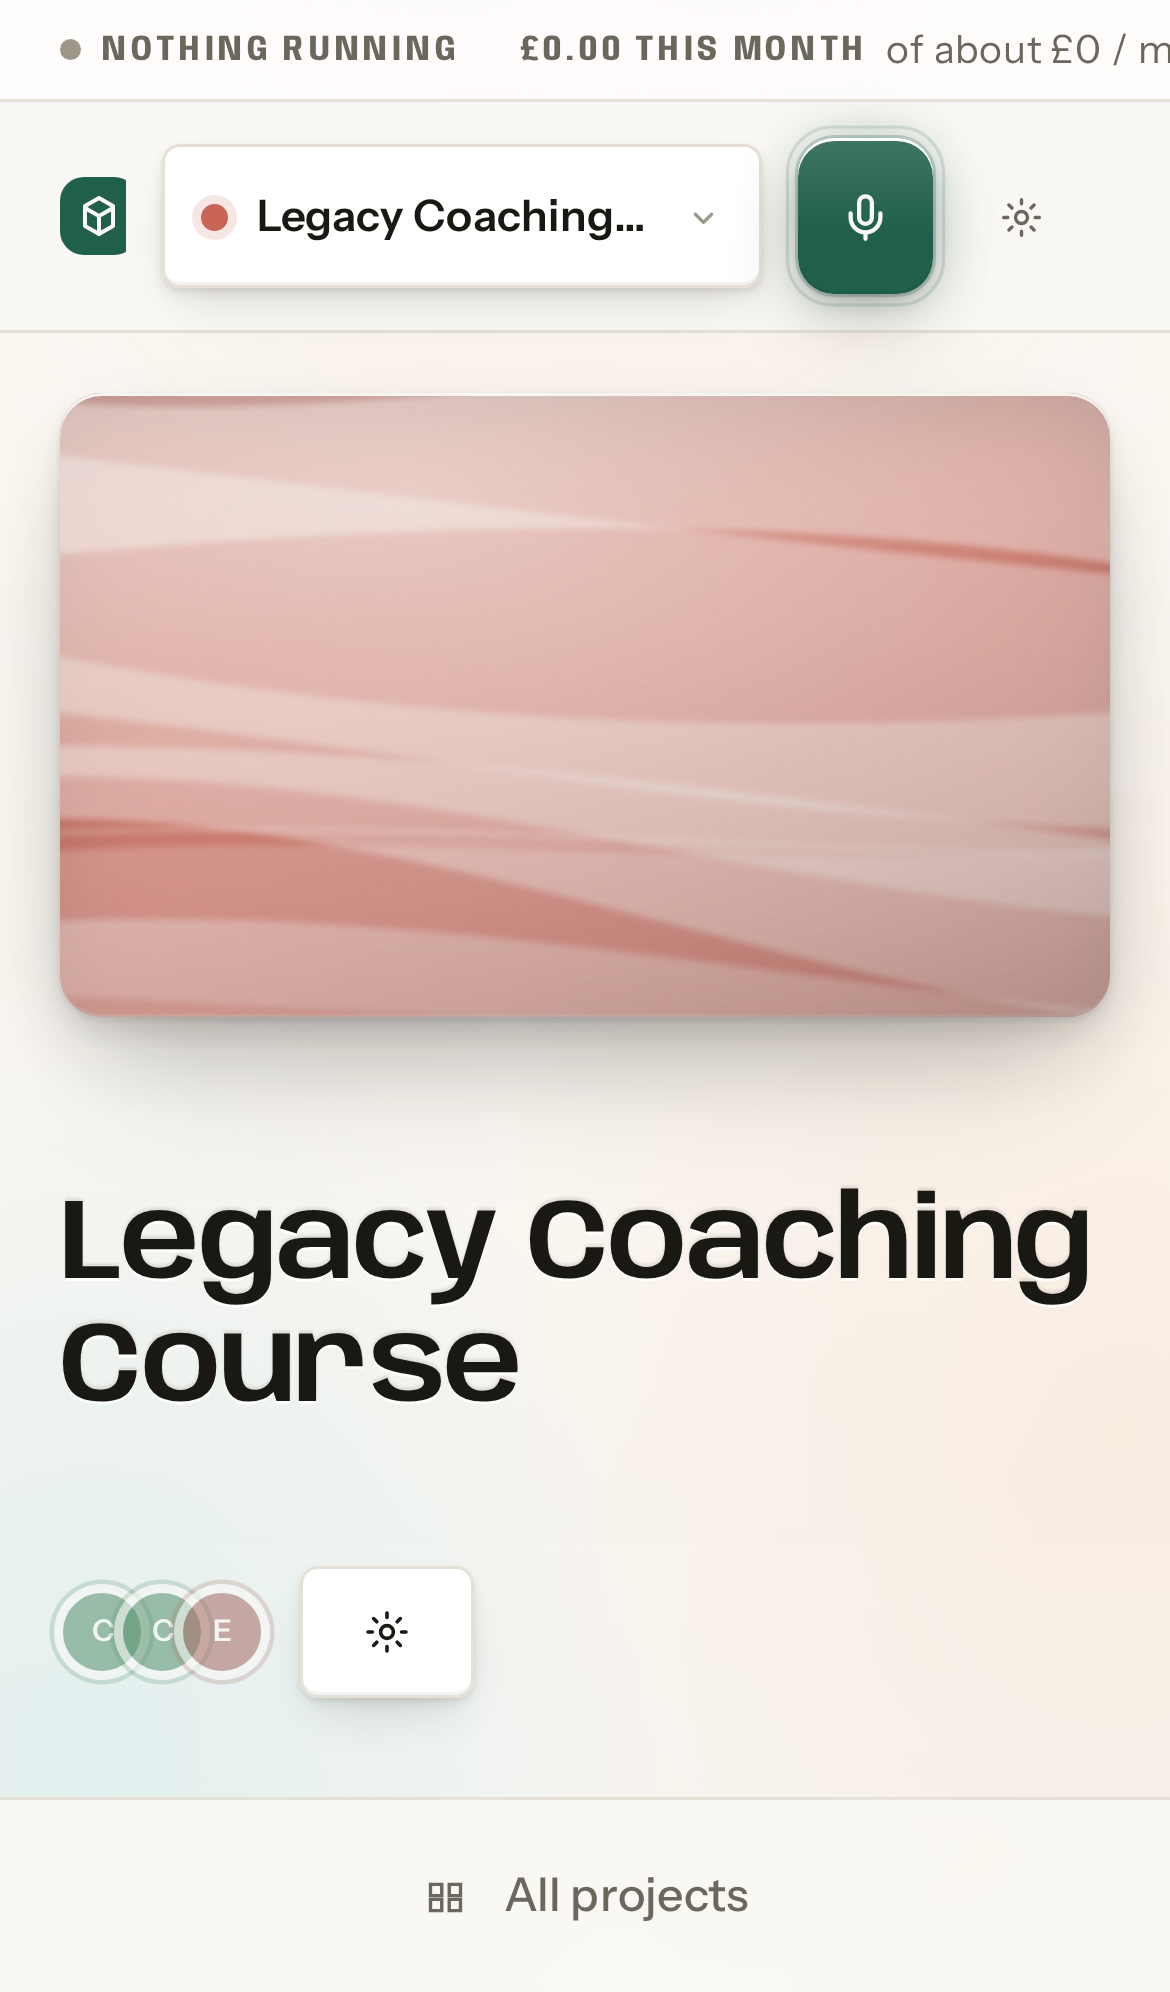
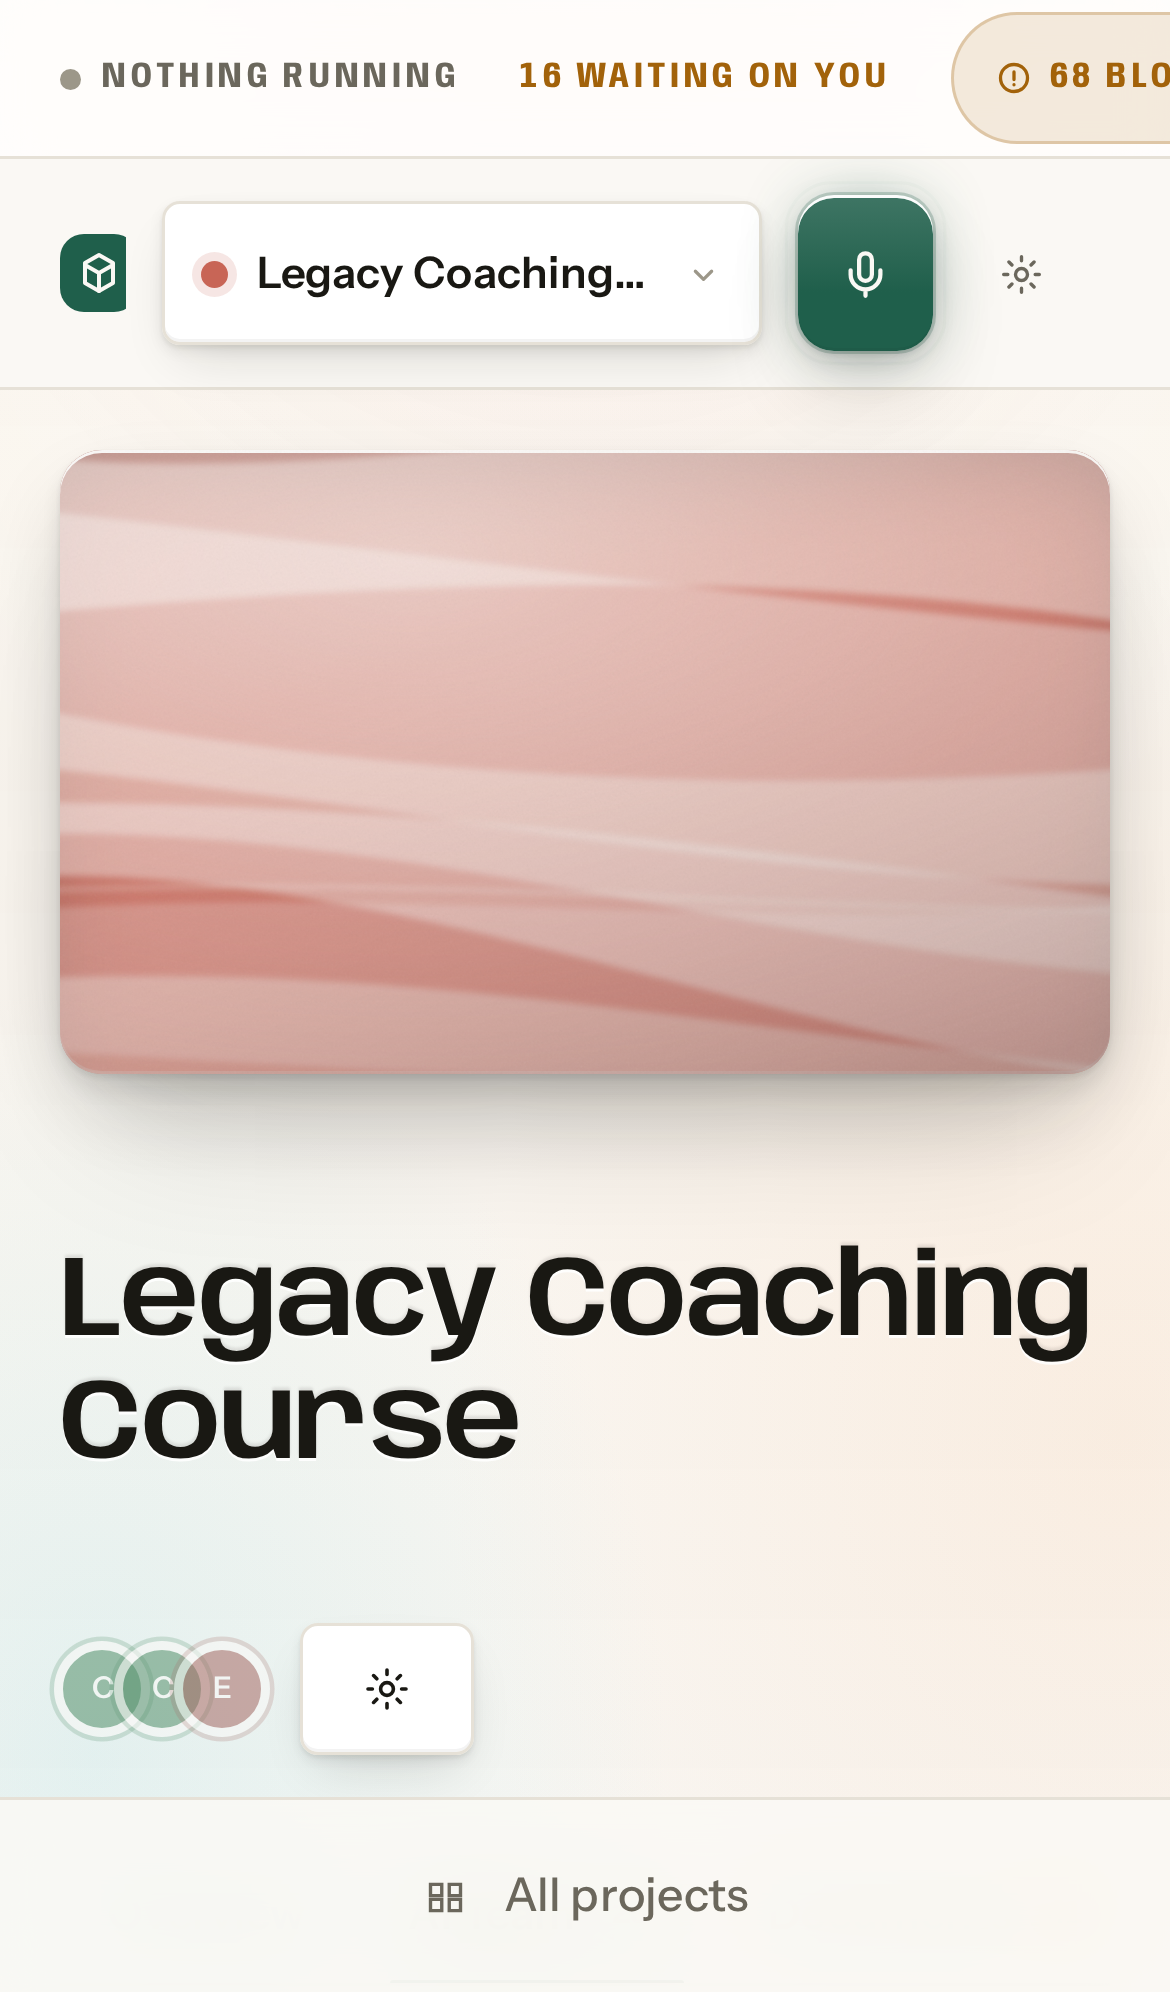
#68 the usage dashboard and the job queue, both real
usage.js said wiring it would be "a one-line change rather than a rewrite"
because the mock was written in usage_overview's exact shape. It was — the
keys match key for key. The dashboard now shows Grant's real figures: 311
calls, 320,436 tokens, 36 failed, 37 MB of 500 MB, and the notebook
allowance marked "our estimate" on the face of the card because Google
publishes no usage API. That labelling is the point: the same file records
that it once claimed 82% of the storage tier when the real number was 4%.

It reads usage_overview, not hq_usage. Two functions, two shapes — hq_usage
groups by subsystem for the old page; usage_overview groups by SERVICE with a
quota and a provenance each, which is what Grant asked for.

workspace.js turned out not to be mocked at all. It is a pure function over
project.requests, and replacing data.js left that array empty — so Active
jobs and Outputs went honestly blank while the office was running jobs. A
tab empty because nothing was asked looks identical to one empty because
nobody wired it, which is why it took a migration rather than a shrug.

Then the ribbon read 68 BLOCKED, in amber, on the biggest project, when
nothing was blocked. I had keyed `blocked` on the presence of state_reason,
which is written on every dequeue — "dequeued by worker-edge". Blocked is
the three states that mean something is being waited on, with the reason
joined from blockers.requested_action, the same column needs_me reads. Two
readers, one definition.
[…]

diff --git a/web/studio/usage.js b/web/studio/usage.js
@@ -51,7 +51,7 @@
 */
 
 /** From `public.usage_overview(30)` — 11 September 2026. */
-export const USAGE = {
+const FALLBACK_USAGE = {
   generated_at: '2026-09-11T07:20:00Z',
   window_days: 30,
   target: 'about £0 / month',
@@ -402,4 +402,41 @@ export function usageTab(data = USAGE) {
     ${area(data.by_day)}
     ${consumers(data.top_models)}
   </div>`
+}
+
+/*
+  ---------------------------------------------------------------------------
+  The real numbers (#68, #61)
+  ---------------------------------------------------------------------------
+
+  This file's header promised that wiring this to `usage_overview(30)` would be
+  "a one-line change rather than a rewrite", because the mock was written in the
+  RPC's exact shape. It was — the two payloads' keys match key for key.
+
+  That mattering is not theoretical, and the header says why: until the morning
+  it was written this page claimed Supabase storage was at 82% of the free tier.
+  Nobody had measured it; the real figure was 4%. On a page that is ENTIRELY
+  numbers, an invented one is the whole feature being a lie — so the fallback
+  below is now clearly the fallback, and the page says when it is showing it.
+*/
+
+export const USAGE = { ...FALLBACK_USAGE }
+export const usageSource = { live: false, why: 'not asked yet' }
+
+export async function hydrateUsage(read) {
+  try {
+    const d = await read('usage_overview')
+    if (!d || !Array.isArray(d.services)) throw new Error('unexpected shape')
+    for (const k of Object.keys(USAGE)) delete USAGE[k]
+    Object.assign(USAGE, d)
+    usageSource.live = true
+    usageSource.why = ''
+    return true
+  } catch (e) {
+    for (const k of Object.keys(USAGE)) delete USAGE[k]
+    Object.assign(USAGE, FALLBACK_USAGE)
+    usageSource.live = false
+    usageSource.why = e instanceof Error ? e.message : String(e)
+    return false
+  }
 }

diff --git a/web/studio/app.js b/web/studio/app.js
@@ -14,7 +14,7 @@ import * as canvasView from './canvas.js'
 import * as chat from './chat.js'
 import * as command from './command.js'
 import * as config from './settings.js'
-import { usageTab } from './usage.js'
+import { hydrateUsage, usageTab } from './usage.js'
 import { MARKS } from './logos/marks.js'
 import * as workspace from './workspace.js'
 import * as panels from './panels.js'
@@ -3232,6 +3232,7 @@ async function refresh() {
     // screen and most visits never open it — but a write can change either, so
     // a refresh re-reads both rather than leaving one stale behind a tab.
     config.hydrateSettings(read),
+    hydrateUsage(read),
   ])
   render()
 }
@@ -3248,7 +3249,7 @@ async function live() {
     render()
     return
   }
-  await Promise.all([hydrate(API, token), config.hydrateSettings(read)])
+  await Promise.all([hydrate(API, token), config.hydrateSettings(read), hydrateUsage(read)])
   render()
 }
 

diff --git a/supabase/functions/hq-api/index.ts b/supabase/functions/hq-api/index.ts
@@ -61,6 +61,16 @@ const SECTIONS: Readonly<Record<string, { fn: string; args?: Record<string, unkn
   studio: { fn: 'hq_studio' },
   // The Settings viewer, in the shapes settings.js already exports (#68).
   studio_settings: { fn: 'hq_studio_settings' },
+  /*
+    The usage dashboard (#61), from `usage_overview` rather than `hq_usage`.
+
+    Two functions, two shapes, and the studio wants the second: `hq_usage` is
+    the old page's, grouped by subsystem; `usage_overview` is grouped by SERVICE
+    with a quota and a provenance on each, which is what Grant asked for —
+    *"a fraction of what's being spent over a monthly, weekly, daily quota"*.
+    `web/studio/usage.js` was written in its exact shape.
+  */
+  usage_overview: { fn: 'usage_overview', args: { p_days: 30 } },
   google: { fn: 'hq_google' },
   // What to do next, for a person who has just opened this for the first time.
   setup: { fn: 'hq_setup' },
